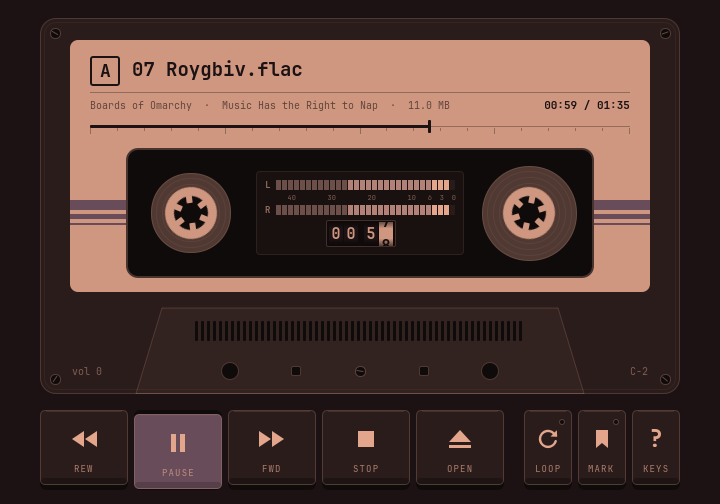
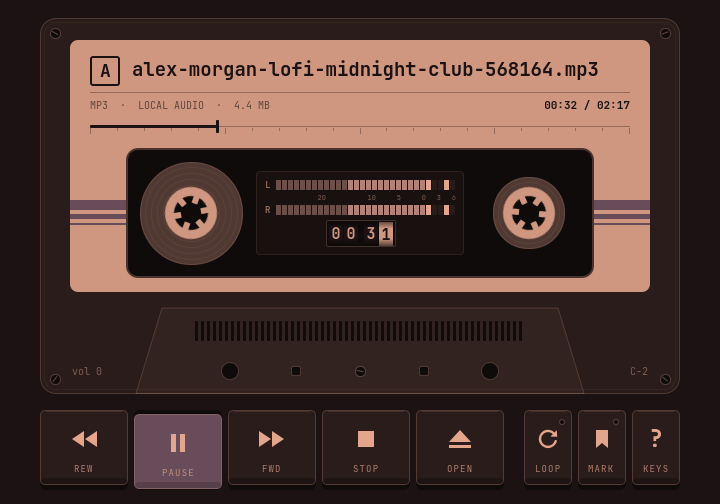
Calibrate the level ladders for mastered music
Sample peaks sit at full scale through a modern master, so the ladders pinned.
They now follow short-term level (RMS + 3 dB) on a -30..+6 scale around
-5 dBFS, fall back a little faster, and hold their top segment more briefly.

diff --git a/src/Scope.qml b/src/Scope.qml
@@ -79,10 +79,10 @@ Rectangle {
             const p = [], h = [], l = []
             for (let i = 0; i < 2; i++) {
                 const target = playing ? (levels[2 + i] || 0) : 0
-                // Peak meters jump up at once and fall back at about 20 dB a second; the top segment lingers.
-                p[i] = Math.max(target, peaks[i] - 0.45 * dt)
+                // The ladders jump up at once and fall back at about 22 dB a second; the top segment lingers.
+                p[i] = Math.max(target, peaks[i] - 0.6 * dt)
                 h[i] = holds[i]; l[i] = linger[i]
-                if (p[i] >= h[i]) { h[i] = p[i]; l[i] = 1 }
+                if (p[i] >= h[i]) { h[i] = p[i]; l[i] = 0.6 }
                 else if (l[i] > 0) l[i] -= dt
                 else h[i] = Math.max(p[i], h[i] - 0.7 * dt)
                 busy = busy || h[i] > 0.001
@@ -228,17 +228,17 @@ Rectangle {
                         required property int index
                         readonly property bool on: index < ladder.lit || (ladder.held > 0 && index === ladder.held - 1)
                         x: 11 + index * 6; width: 5; height: 10
-                        color: !on ? Qt.alpha(scope.fg, 0.07) : index >= panel.segments - 4 ? scope.fg : index < 12 ? Qt.tint(scope.color, Qt.alpha(scope.glow, 0.55)) : scope.glow
+                        color: !on ? Qt.alpha(scope.fg, 0.07) : index >= panel.segments - 5 ? scope.fg : index < 12 ? Qt.tint(scope.color, Qt.alpha(scope.glow, 0.55)) : scope.glow
                     }
                 }
             }
         }
         Repeater {
-            model: [40, 30, 20, 10, 6, 3, 0]
+            model: [-20, -10, -5, 0, 3, 6]
             Text {
                 required property int modelData
-                x: 11 + (45 - modelData) / 45 * 180 - width; y: 12.5
-                text: modelData; font.family: scope.mono; font.pixelSize: 7; color: Qt.alpha(scope.fg, 0.5)
+                x: 11 + (modelData + 30) / 36 * 180 - width; y: 12.5
+                text: Math.abs(modelData); font.family: scope.mono; font.pixelSize: 7; color: Qt.alpha(scope.fg, 0.5)
             }
         }
         component Wheel: Rectangle {

diff --git a/src/meter.rs b/src/meter.rs
@@ -1,5 +1,5 @@
 //! Signal analysis for the visualizers: a log-spaced spectrum for the analyzer and spectrogram, VU
-//! needle deflection, and sample peaks for the level ladder. Pure functions over decoded samples; smoothing and ballistics
+//! needle deflection, and programme level for the ladders. Pure functions over decoded samples; smoothing and ballistics
 //! belong to the interface.
 
 use std::f32::consts::PI;
@@ -15,8 +15,11 @@ const TILT_DB_PER_OCTAVE: f32 = 3.0;
 /// A steady tone at this RMS level (dBFS) reads 0 VU, which suits mastered music.
 const VU_REFERENCE_DB: f32 = -10.0;
 const LARGEST_WINDOW: usize = 2048;
-/// The peak ladder's bottom segment, in dBFS; its top segment is full scale.
-const PEAK_FLOOR_DB: f32 = -45.0;
+/// The level ladder reads like a deck's programme meter: 0 dB is this level (dBFS, sine-equivalent),
+/// which is where mastered music spends its time, on a scale from -30 to +6.
+const LADDER_REFERENCE_DB: f32 = -5.0;
+const LADDER_FLOOR_DB: f32 = -30.0;
+const LADDER_CEILING_DB: f32 = 6.0;
 
 /// In-place radix-2 FFT; `re.len()` must be a power of two.
 fn fft(re: &mut [f32], im: &mut [f32]) {
@@ -84,13 +87,19 @@ pub fn vu(samples: &[f32]) -> f32 {
     if samples.is_empty() {
         return 0.0;
     }
-    let rms = (samples.iter().map(|s| s * s).sum::<f32>() / samples.len() as f32).sqrt();
+    let rms = rms(samples);
     let reference = 10f32.powf(VU_REFERENCE_DB / 20.0);
     (rms / reference / 10f32.powf(3.0 / 20.0)).clamp(0.0, 1.08)
 }
 
-/// The loudest sample as a fraction of the peak ladder: 0 at -45 dBFS or below, 1 at full scale.
-pub fn peak(samples: &[f32]) -> f32 {
-    let loudest = samples.iter().fold(0f32, |max, s| max.max(s.abs()));
-    ((20.0 * loudest.max(1e-9).log10() - PEAK_FLOOR_DB) / -PEAK_FLOOR_DB).clamp(0.0, 1.0)
+fn rms(samples: &[f32]) -> f32 {
+    (samples.iter().map(|s| s * s).sum::<f32>() / samples.len().max(1) as f32).sqrt()
+}
+
+/// How far up the level ladder these samples reach, 0..=1. Sample peaks sit near full scale all
+/// through a modern master, so the ladder follows short-term level instead: RMS plus 3 dB, which
+/// reads a sine at its peak.
+pub fn ladder(samples: &[f32]) -> f32 {
+    let db = 20.0 * rms(samples).max(1e-9).log10() + 3.0 - LADDER_REFERENCE_DB;
+    ((db - LADDER_FLOOR_DB) / (LADDER_CEILING_DB - LADDER_FLOOR_DB)).clamp(0.0, 1.0)
 }

diff --git a/src/ffi.rs b/src/ffi.rs
@@ -32,7 +32,7 @@ pub unsafe extern "C" fn nap_core_request(core: *mut App, request: *const c_char
 }
 
 /// Analyze one buffer for the visualizers: `bands` spectrum bars from the channel mix, and into
-/// `levels` the left and right VU deflections followed by the left and right sample peaks. Hot path, so it bypasses the JSON boundary.
+/// `levels` the left and right VU deflections followed by the left and right ladder levels. Hot path, so it bypasses the JSON boundary.
 #[unsafe(no_mangle)]
 pub unsafe extern "C" fn nap_analyze(
     left: *const f32,
@@ -59,8 +59,8 @@ pub unsafe extern "C" fn nap_analyze(
     let _ = std::panic::catch_unwind(std::panic::AssertUnwindSafe(|| {
         let mix: Vec<f32> = left.iter().zip(right).map(|(l, r)| (l + r) / 2.0).collect();
         bands.copy_from_slice(&crate::meter::spectrum(&mix, rate, band_count));
-        use crate::meter::{peak, vu};
-        levels.copy_from_slice(&[vu(left), vu(right), peak(left), peak(right)]);
+        use crate::meter::{ladder, vu};
+        levels.copy_from_slice(&[vu(left), vu(right), ladder(left), ladder(right)]);
     }));
 }
 

diff --git a/tests/meter_tests.rs b/tests/meter_tests.rs
@@ -27,11 +27,13 @@ fn vu_reads_zero_at_the_reference_level() {
     assert_eq!(meter::vu(&[]), 0.0);
     assert_eq!(meter::vu(&[0.0; 512]), 0.0);
     assert_eq!(meter::vu(&[1.0; 512]), 1.08);
-    // Peaks read sample height, not loudness: full scale tops the ladder, -22.5 dBFS is halfway up.
-    assert_eq!(meter::peak(&[0.0, -1.0, 0.2]), 1.0);
-    assert!((meter::peak(&sine(440.0, 10f32.powf(-22.5 / 20.0), 48000, 4800)) - 0.5).abs() < 0.01);
-    assert_eq!(meter::peak(&[]), 0.0);
-    assert_eq!(meter::peak(&[0.001; 64]), 0.0);
+    // The ladder runs -30..+6 dB around -5 dBFS: a sine peaking there reads 0 dB, 30/36 of the way up.
+    let zero = 10f32.powf(-5.0 / 20.0);
+    assert!((meter::ladder(&sine(440.0, zero, 48000, 4800)) - 30.0 / 36.0).abs() < 0.005);
+    assert!((meter::ladder(&sine(440.0, zero / 10.0, 48000, 4800)) - 10.0 / 36.0).abs() < 0.005);
+    assert_eq!(meter::ladder(&[1.0; 512]), 1.0);
+    assert_eq!(meter::ladder(&[]), 0.0);
+    assert_eq!(meter::ladder(&[0.001; 64]), 0.0);
 }
 
 #[test]

diff --git a/tests/player_test.cpp b/tests/player_test.cpp
@@ -59,7 +59,7 @@ private slots:
         for (int i = 0; i < 24; ++i) if (p.spectrum()[i].toDouble() > p.spectrum()[loudest].toDouble()) loudest = i;
         QCOMPARE(loudest, 9);
         QCOMPARE(p.levels().size(), 4);
-        QVERIFY(std::abs(p.levels()[2].toDouble() - (45 - 12.25) / 45) < 0.02);
+        QVERIFY(std::abs(p.levels()[2].toDouble() - (30 - 7.25) / 36) < 0.02);
         QVERIFY(std::abs(p.levels()[0].toDouble() - 0.39) < 0.03);
         QCOMPARE(p.levels()[0], p.levels()[1]);
         p.toggle(); QVERIFY(!p.playing()); QVERIFY(p.wave().isEmpty()); QVERIFY(p.spectrum().isEmpty());

diff --git a/README.md b/README.md
@@ -73,7 +73,7 @@ The full installer requires an existing Hyprland Lua configuration and `xdg-mime
   `$XDG_STATE_HOME/nap/visualizer`:
   - *bars* (the default): a 24-band spectrum analyzer in shaded cells, with caps that hang and then fall.
   - *vu*: a pair of needle VU meters with real meter ballistics; 0 VU is -10 dBFS RMS.
-  - *peak*: a deck's front panel, with segmented peak ladders (dBFS, with peak hold) over a
+  - *peak*: a deck's front panel, with segmented level ladders (-30 to +6 dB around -5 dBFS, with peak hold) over a
     mechanical tape counter whose wheels roll with the elapsed time and whirr when you seek.
   - *spectrogram*: the last few seconds of spectrum scrolling past in shaded cells, bass at the
     bottom; pausing holds the picture.
